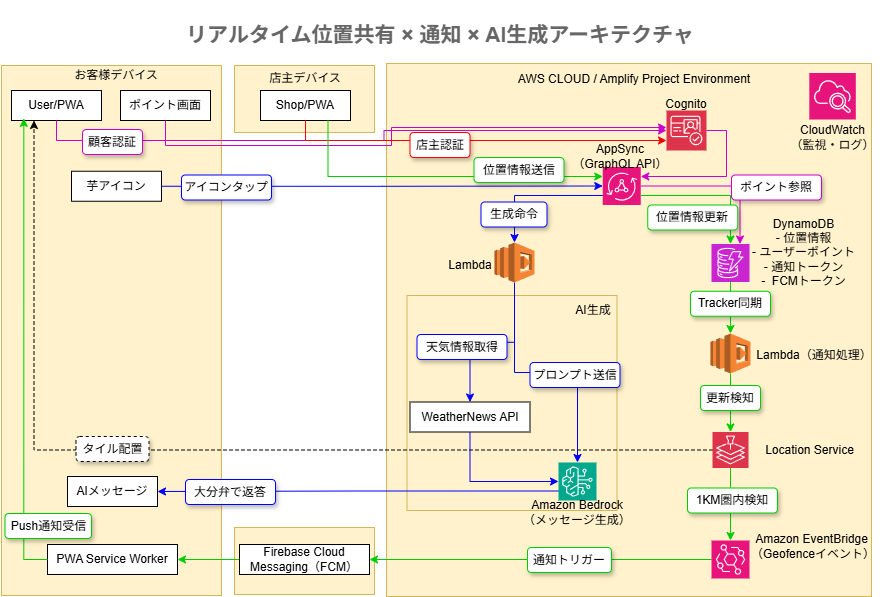
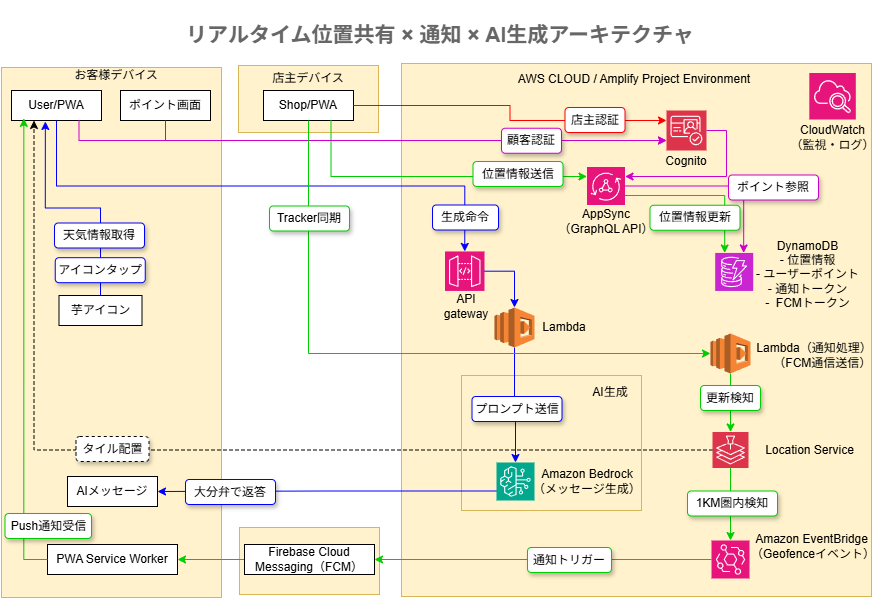
構成図を改良

diff --git a/README.md b/README.md
@@ -96,14 +96,14 @@ AWSコスト管理として、以下の設定を行っています。
 
 地図上の「焼き芋アイコン」をタップすると、
 
-* 天気APIから現在の天気・気温を取得
+* tsukumijima.netから現在の天気・気温を取得
 * その情報をAmazon Bedrockに送信
 * 焼き芋屋らしい販促メッセージを自動生成
 
 ### フロー
 
 1. ユーザーが芋アイコンをタップ
-2. 天気APIから現在の天気情報を取得
+2. tsukumijima.netから現在の天気情報を取得
 3. Lambda経由でBedrockへリクエスト
 4. AIが販促メッセージを生成
 5. 画面に表示
